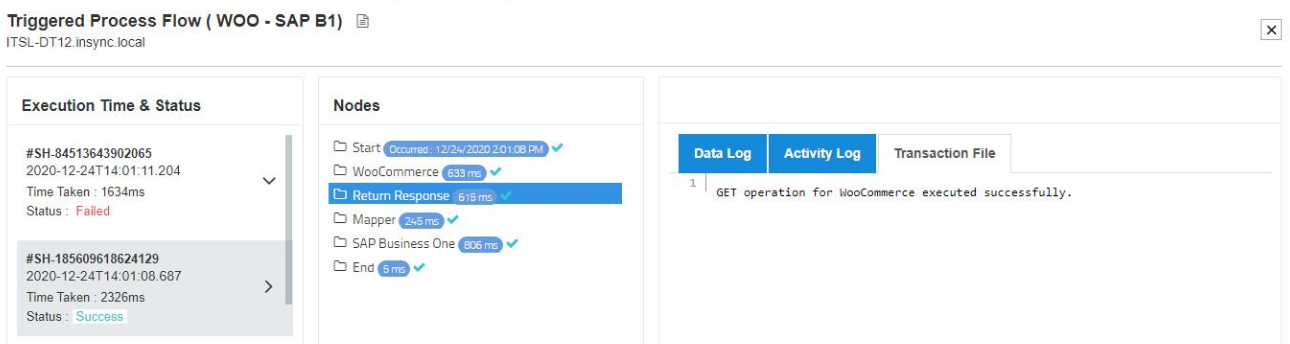
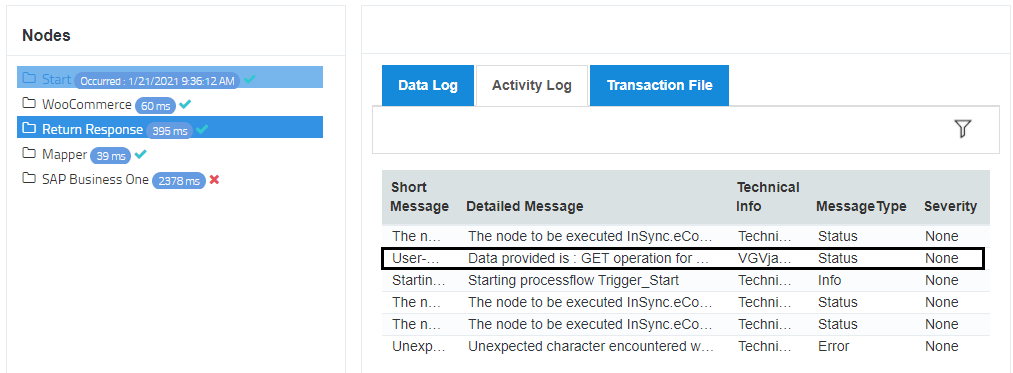
update response node

diff --git a/_posts/ProcessFlow Management/Nodes and Links/2020-12-15-working-with-Return-Response-Node.md b/_posts/ProcessFlow Management/Nodes and Links/2020-12-15-working-with-Return-Response-Node.md
@@ -49,9 +49,13 @@ b. Click on the SAVE button, once you provided the customized info.
 
 c. [Design](/processflow/creating-processflow/) your processflow and [Deploy](/processflow/deploying-and-executing-processfloww/#deploying-processflows-to-environment) to execute your designed processflow.
 
-d. The snapshots will be generated for each execution that will allow you to survey the Data synced and the returned response. You will be able to view the Customized Info provided by the user as Return Response.
+d. The snapshots will be generated for each execution that will allow you to survey the Data synced and the returned response. You will be able to view the Customized Info provided by the user as Return Response in the **ACTIVITY LOG** of Snapshot.
 
 ![returnresponse4](\staticfiles\processflow\media\returnresponse4.PNG)
+
+e. Clicking over the specific LOG, you can view the complete defined text provided on a separate window.
+
+![returnresponse6](\staticfiles\processflow\media\returnresponse5.PNG)
 
 ### Reponse Type: Output of the Previous Node
 
